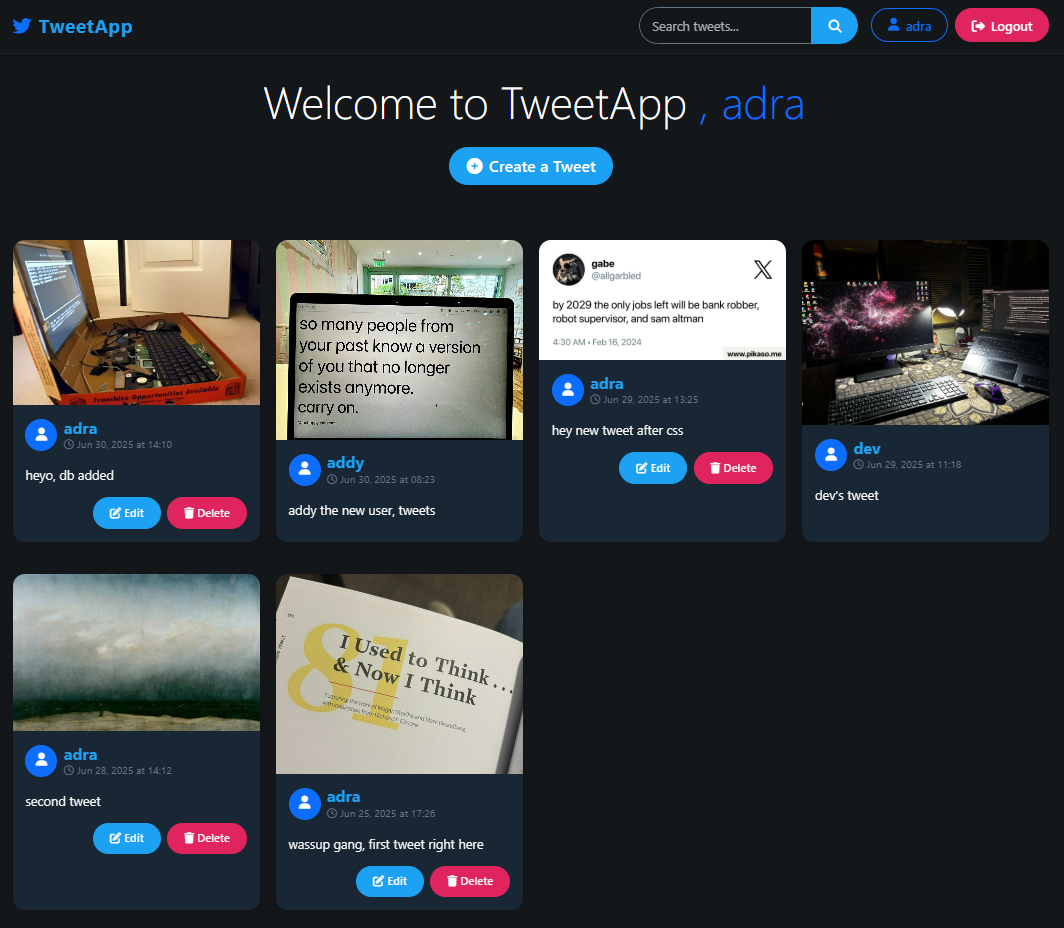
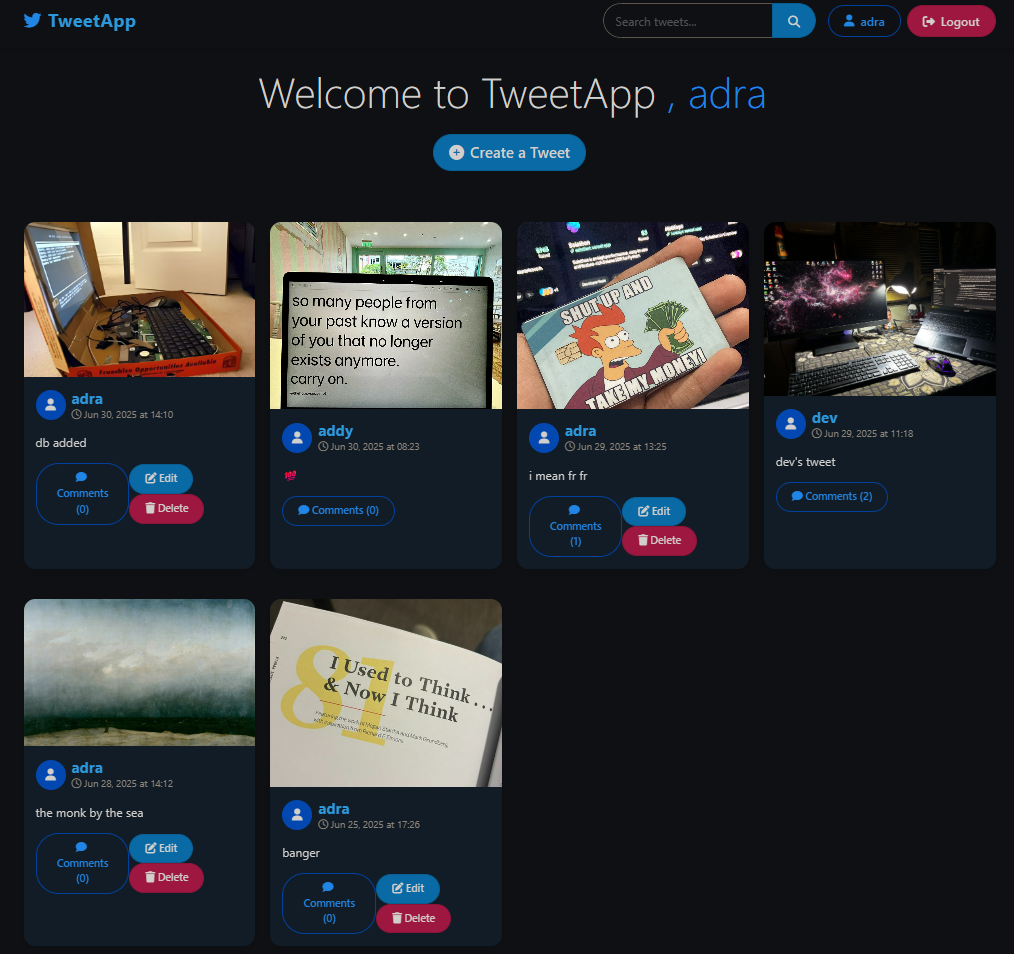
comments impl

diff --git a/tweetapp/tweetapp/settings.py b/tweetapp/tweetapp/settings.py
@@ -26,7 +26,8 @@ SECRET_KEY = "django-insecure-1uaa5@%j+jrk454%r5=nn2vrg-0)^91%u@s2h$h=r6v4cv2tk5
 # SECURITY WARNING: don't run with debug turned on in production!
 DEBUG = True
 
-ALLOWED_HOSTS = []
+ALLOWED_HOSTS = ['127.0.0.1', 'localhost', '192.168.0.101', '.trycloudflare.com'] #for cloudflare tunnel
+
 
 
 # Application definition
@@ -39,7 +40,6 @@ INSTALLED_APPS = [
     "django.contrib.messages",
     "django.contrib.staticfiles",
     "tweet",    #this is the app that we created, first step is to add it to the INSTALLED_APPS
-    "tailwind",
 ]
 
 MIDDLEWARE = [

diff --git a/notes.md b/notes.md
@@ -40,4 +40,3 @@ python .\manage.py migrate
 
 - the comments functionality is working, created a new model for the comments and a comment form and then added it to views. added the url for the comments. then a new template for the comments using django forms [tweet_detail.html](tweetapp/tweet/templates/tweet_detail.html)
 registered this comment model in the admin so that admin can view all the comments.
-
